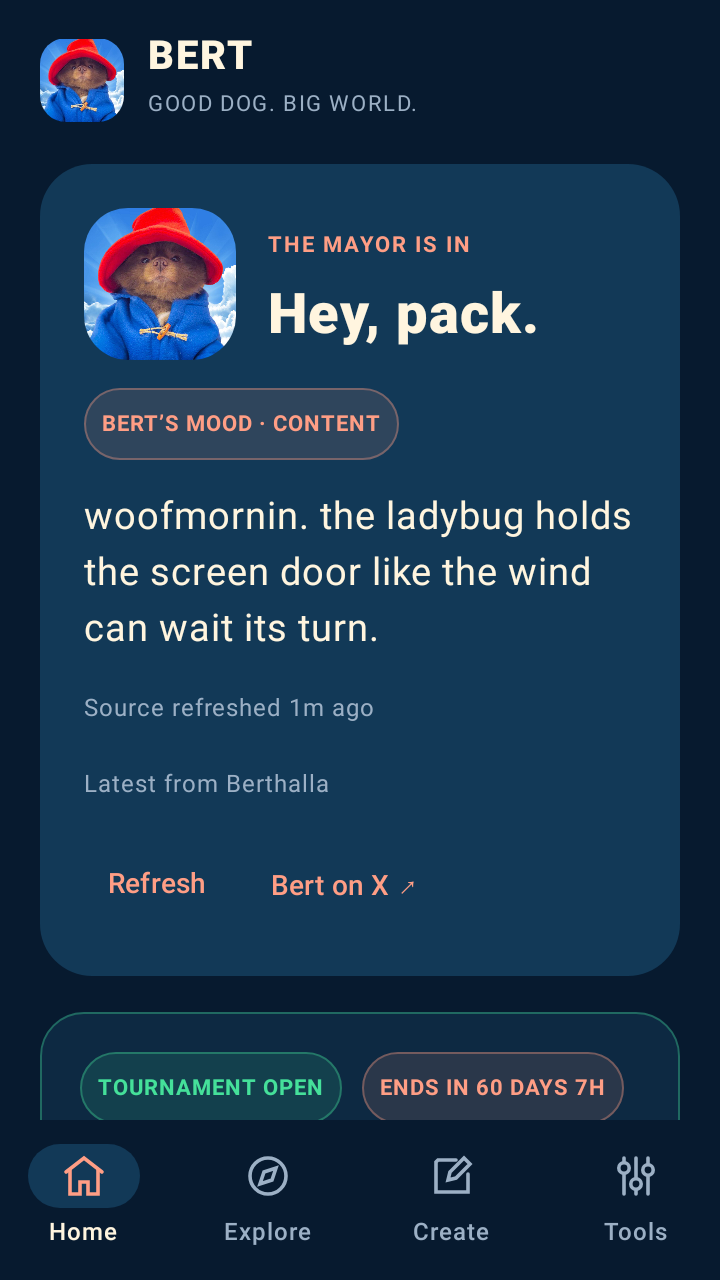
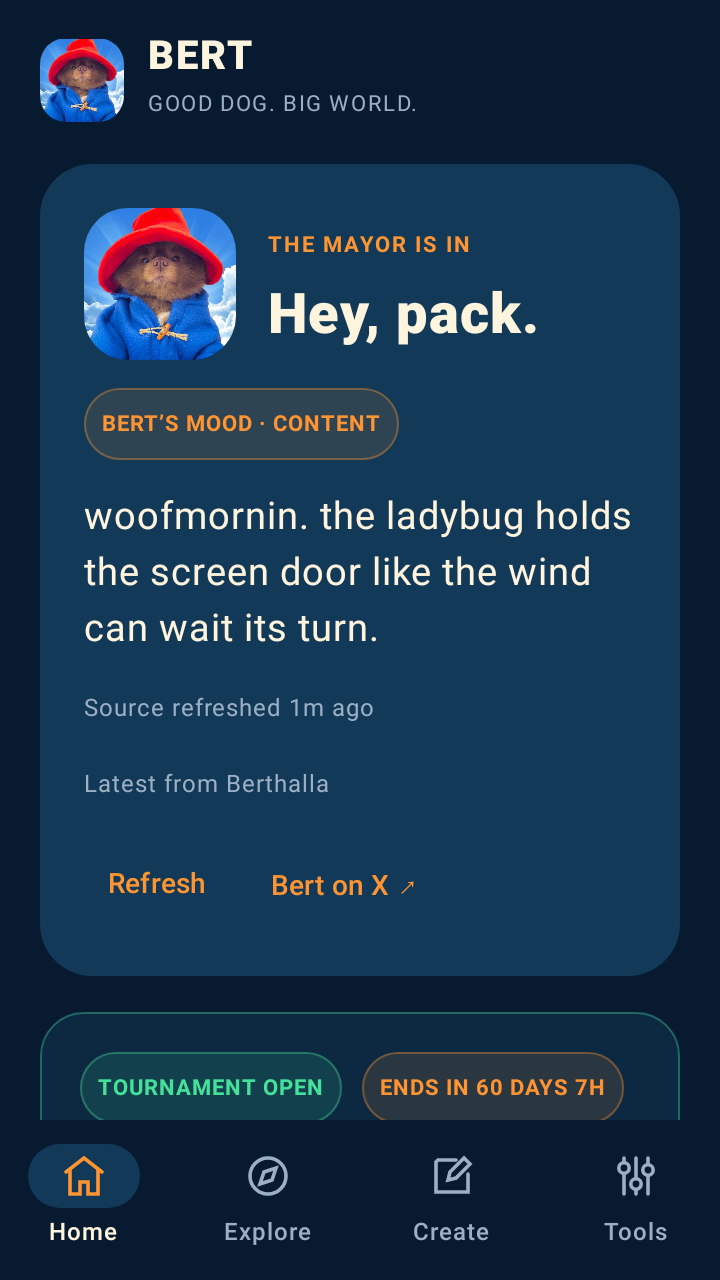
Use orange instead of salmon across the app
Owner preferred orange. #FF9433 replaces both the salmon text accent and the
red-orange action colour: one orange for buttons, labels, links and pills,
passing contrast on every surface (4.6:1 in the tinted status pill, which the
first candidate #FF8C2E missed at 4.42). Play screenshots regenerated.

Claude-Session: https://claude.ai/code/session_01MXoEagnNaUMwieA1XJJnvc

diff --git a/android/app/src/main/java/global/bert/widget/CaptionCard.kt b/android/app/src/main/java/global/bert/widget/CaptionCard.kt
@@ -106,7 +106,7 @@ internal fun renderCaption(context: Context, caption: String, palette: Int, styl
             }
             canvas.drawRect(0f, H - bandHeight - 220f, W.toFloat(), H - bandHeight, shade)
             canvas.drawRect(0f, H - bandHeight, W.toFloat(), H.toFloat(), Paint().apply { color = band })
-            val label = Paint(Paint.ANTI_ALIAS_FLAG).apply { color = 0xFFFF9E85.toInt().takeIf { p == 0 } ?: 0xFFB8452B.toInt(); textSize = 30f; typeface = bold; textAlign = Paint.Align.CENTER; letterSpacing = 0.12f }
+            val label = Paint(Paint.ANTI_ALIAS_FLAG).apply { color = 0xFFFF9433.toInt().takeIf { p == 0 } ?: 0xFFB8452B.toInt(); textSize = 30f; typeface = bold; textAlign = Paint.Align.CENTER; letterSpacing = 0.12f }
             canvas.drawText("A NOTE FROM BERT", W / 2f, H - bandHeight + 40f, label)
             textPaint.color = foreground
             val boxTop = H - bandHeight + 76f

diff --git a/android/app/src/main/java/global/bert/widget/BERTComponents.kt b/android/app/src/main/java/global/bert/widget/BERTComponents.kt
@@ -17,8 +17,10 @@ internal val Panel = Color(0xFF0D2942)
 internal val PanelStrong = Color(0xFF123957)
 internal val Cream = Color(0xFFFFF5DF)
 internal val Muted = Color(0xFF9CB0C5)
-internal val Orange = Color(0xFFF25836)
-internal val AccentText = Color(0xFFFF9E85)
+// One orange for actions, labels and links (owner preferred orange over the earlier salmon). It is light enough
+// for text on every navy surface (8.0 / 6.8 / 5.5:1, 4.6:1 inside a tinted status pill), which #F25836 is not.
+internal val Orange = Color(0xFFFF9433)
+internal val AccentText = Orange
 internal val Green = Color(0xFF45E09A)
 internal val Red = Color(0xFFFF6B7A)
 internal val Amber = Color(0xFFFFC857)
